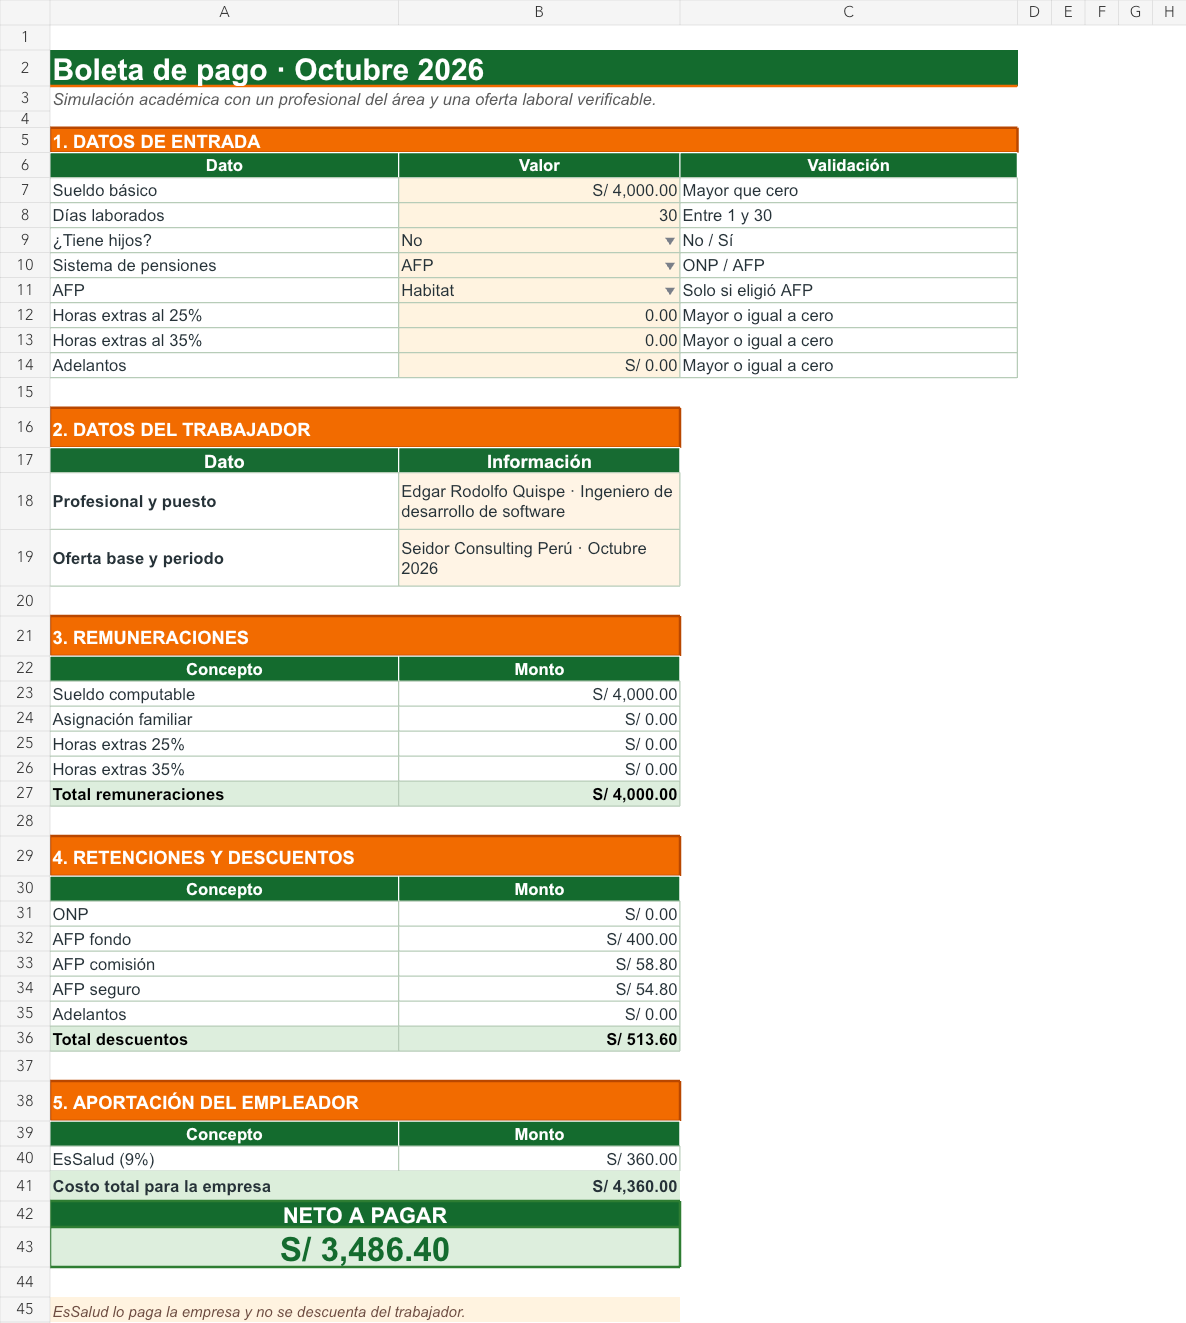
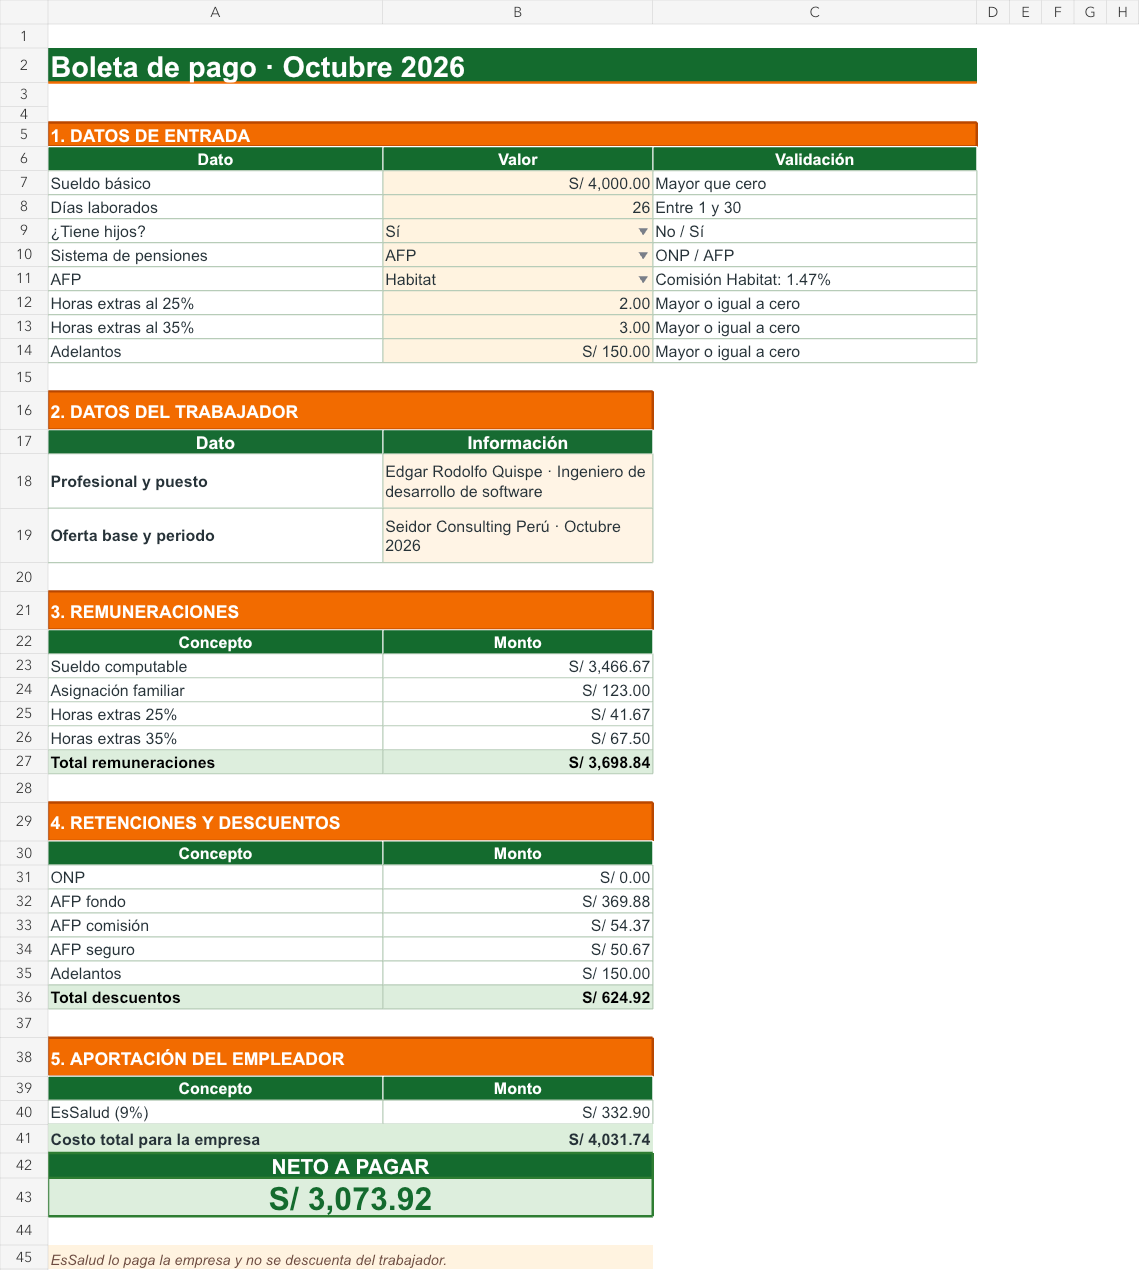
Renové las evidencias con la boleta actualizada

diff --git a/SEMANA09/README.md b/SEMANA09/README.md
@@ -62,10 +62,22 @@ swiftc \
 
 ![Resultado del caso propio](evidencias/03_caso_propio_resultado.png)
 
-### Boleta en Excel
+### Boleta actualizada en Excel
+
+La boleta usa sueldo de S/ 4,000.00, 26 días laborados, asignación familiar, AFP Habitat, 2 horas al 25%, 3 horas al 35% y adelanto de S/ 150.00. El neto calculado es S/ 3,073.92.
 
 ![Boleta calculada en Excel](evidencias/04_boleta_excel.png)
 
 ### Control cruzado entre guía, Excel y aplicación
 
 ![Control cruzado de resultados](evidencias/05_control_cruzado_excel.png)
+
+### Resultado de la boleta actualizada en la aplicación
+
+![Resultado equivalente en la aplicación](evidencias/06_boleta_app_actualizada.png)
+
+### Explicación de las tasas AFP
+
+La comisión depende de la AFP seleccionada. Habitat aplica 1.47%, mientras que el 1.60% corresponde a Prima o a la opción académica AFP Guía.
+
+![Parámetros y aclaración de las tasas AFP](evidencias/07_parametros_afp.png)
